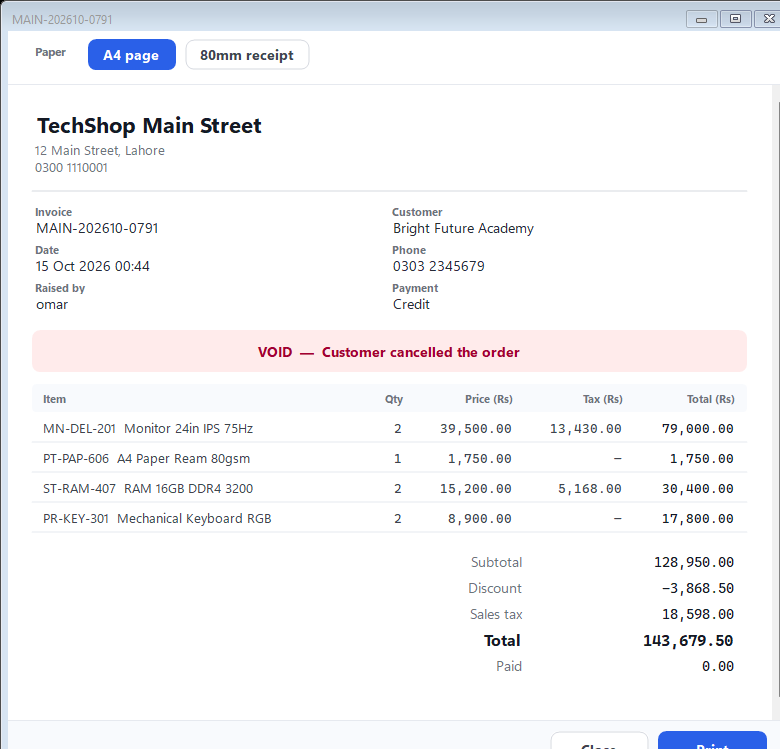
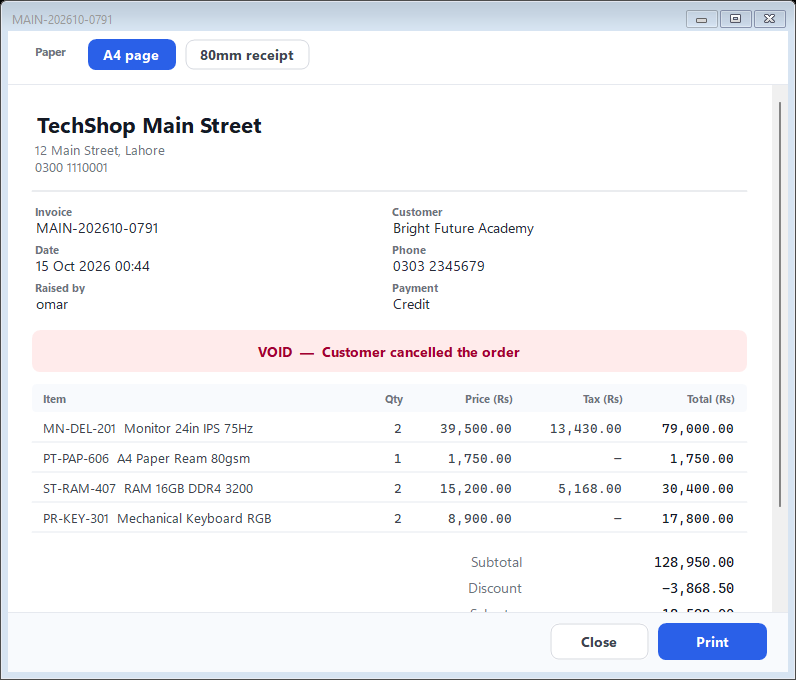
Keep every dialog inside the screen it opens on
The invoice dialog asked for a 760px client area, which is 790 with
its title bar. A 1366x768 laptop has about 720 usable pixels once the
taskbar has taken its share, so the footer -- holding Print and Close
-- sat below the bottom edge. The purchase bill editor and the user
editor were close to the same line.

Added DialogSizing.KeepOnScreen, applied to all eight dialogs. It runs
on Load, when the owner is finally known and so is the screen the
dialog will actually appear on: it lowers any MinimumSize that would
defeat the clamp, shrinks the window to the working area, and
re-centres, because a form shrunk after being centred for its original
size can still hang off the bottom. The tall dialogs now ask for a
height capped to what the screen allows, so the clamp is a safety net
rather than the normal path.

The invoice sheet scrolls, so a long invoice does not need a taller
window.

QA opens all twelve dialogs and checks each fits the working area,
sits fully on screen, and keeps its footer and footer buttons inside
the client area.

Also fixed the screenshot pass, which sized its bitmap to ClientSize
while DrawToBitmap paints the title bar too -- every render was losing
that many pixels off the bottom, which is what made the footer look
clipped when it was not. 270 checks pass.

diff --git a/tests/TechShop.QaHarness/DialogTests.cs b/tests/TechShop.QaHarness/DialogTests.cs
@@ -1,0 +1,148 @@
+using System.Drawing;
+using Microsoft.Extensions.DependencyInjection;
+using TechShop.Application.Common.Query;
+using TechShop.Application.Features.Catalog;
+using TechShop.Application.Features.Money;
+using TechShop.Application.Features.Parties;
+using TechShop.Application.Features.Purchases;
+using TechShop.Application.Features.Sales;
+using TechShop.Application.Features.Shops;
+using TechShop.Application.Features.Stock;
+using TechShop.Application.Features.Users;
+using TechShop.WinForms;
+using TechShop.WinForms.Controls;
+using TechShop.WinForms.Features.Admin;
+using TechShop.WinForms.Features.Catalog;
+using TechShop.WinForms.Features.Money;
+using TechShop.WinForms.Features.Parties;
+using TechShop.WinForms.Features.Pos;
+using TechShop.WinForms.Features.Purchases;
+using TechShop.WinForms.Features.Sales;
+using TechShop.WinForms.Features.Stock;
+
+namespace TechShop.QaHarness;
+
+/// <summary>
+/// Opens every dialog and checks it fits the screen.
+///
+/// A dialog sized on a big monitor loses its footer on a shop laptop, and the footer is
+/// where Save, Print and Close live — so the operator cannot finish what they started.
+/// A 1366x768 screen leaves about 720 usable pixels, which is less than several of these
+/// dialogs originally asked for.
+/// </summary>
+internal static class DialogTests
+{
+    public static async Task RunAsync(Harness harness)
+    {
+        var area = Screen.PrimaryScreen?.WorkingArea ?? new Rectangle(0, 0, 1366, 720);
+        harness.Section($"dialogs fit the screen ({area.Width}x{area.Height} usable)");
+
+        using var scope = AppHost.CreateScope();
+        var sp = scope.ServiceProvider;
+
+        var shops = await sp.GetRequiredService<ShopService>().LookupAsync().ConfigureAwait(true);
+        var categories = await sp.GetRequiredService<CategoryService>().LookupAsync().ConfigureAwait(true);
+        var suppliers = await sp.GetRequiredService<SupplierService>().LookupAsync().ConfigureAwait(true);
+        var customers = await sp.GetRequiredService<CustomerService>().LookupAsync().ConfigureAwait(true);
+        var expenseCategories = await sp.GetRequiredService<ExpenseService>().CategoriesAsync().ConfigureAwait(true);
+
+        var products = await sp.GetRequiredService<ProductService>()
+            .QueryAsync(new QueryRequest { PageSize = 200 }).ConfigureAwait(true);
+
+        var invoices = await sp.GetRequiredService<SalesService>()
+            .QueryAsync(new QueryRequest { PageSize = 20, Sort = [new SortRule { Field = "invoiceDate", Desc = true }] })
+            .ConfigureAwait(true);
+
+        var invoice = await sp.GetRequiredService<SalesService>()
+            .GetAsync(invoices.Items[0].Id).ConfigureAwait(true);
+
+        var bills = await sp.GetRequiredService<PurchaseService>()
+            .QueryAsync(new QueryRequest { PageSize = 5 }).ConfigureAwait(true);
+
+        var bill = await sp.GetRequiredService<PurchaseService>()
+            .GetAsync(bills.Items[0].Id).ConfigureAwait(true);
+
+        var levels = await sp.GetRequiredService<StockService>()
+            .QueryLevelsAsync(new QueryRequest { PageSize = 5 }).ConfigureAwait(true);
+
+        var ledger = await sp.GetRequiredService<Application.Features.Ledgers.LedgerService>()
+            .CustomerLedgerAsync(customers[0].Id, null, null, null).ConfigureAwait(true);
+
+        var user = await sp.GetRequiredService<UserService>()
+            .GetAsync((await sp.GetRequiredService<UserService>()
+                .QueryAsync(new QueryRequest { PageSize = 1 }).ConfigureAwait(true)).Items[0].Id)
+            .ConfigureAwait(true);
+
+        Check(harness, "Invoice (A4)", area, () => new InvoiceDetailDialog(invoice));
+        Check(harness, "Invoice (80mm)", area, () => new InvoiceDetailDialog(invoice, InvoiceFormat.Receipt80));
+        Check(harness, "Purchase bill", area, () => new PurchaseBillDialog(bill));
+        Check(harness, "New purchase bill", area, () => new PurchaseBillEditor(
+            sp.GetRequiredService<PurchaseService>(), shops, [.. suppliers], products.Items, shops[0].Id));
+        Check(harness, "Customer ledger", area, () => new LedgerDialog("QA ledger", ledger));
+        Check(harness, "Stock movements", area, () => new StockMovementsDialog(
+            sp.GetRequiredService<StockService>(), null, null));
+        Check(harness, "Edit user", area, () => new UserEditor(sp.GetRequiredService<UserService>(), shops, user));
+        Check(harness, "Payment", area, () => new PaymentDialog(1234.56m, walkIn: true));
+        Check(harness, "New product", area, () => new ProductEditor(
+            sp.GetRequiredService<ProductService>(), categories, null));
+        Check(harness, "New customer", area, () => new CustomerEditor(
+            sp.GetRequiredService<CustomerService>(), null));
+        Check(harness, "New expense", area, () => new ExpenseEditor(
+            sp.GetRequiredService<ExpenseService>(), shops, expenseCategories, null));
+        Check(harness, "Stock adjustment", area, () => new StockAdjustEditor(
+            sp.GetRequiredService<StockService>(), levels.Items[0]));
+    }
+
+    private static void Check(Harness harness, string name, Rectangle area, Func<Form> build)
+    {
+        Form? dialog = null;
+
+        try
+        {
+            dialog = build();
+            dialog.ShowInTaskbar = false;
+            dialog.Show();
+            System.Windows.Forms.Application.DoEvents();
+
+            harness.Expect($"{name}: fits the working area",
+                dialog.Width <= area.Width && dialog.Height <= area.Height,
+                $"{dialog.Width}x{dialog.Height} against {area.Width}x{area.Height} usable");
+
+            harness.Expect($"{name}: sits fully on screen",
+                dialog.Left >= area.Left && dialog.Top >= area.Top
+                && dialog.Right <= area.Right && dialog.Bottom <= area.Bottom,
+                $"at {dialog.Bounds}, screen is {area}");
+
+            // The footer is what gets lost when a dialog is too tall, and it is the part
+            // holding Save, Print and Close.
+            var bottomMost = dialog.Controls.OfType<Control>()
+                .Where(c => c.Dock == DockStyle.Bottom && c.Visible)
+                .ToList();
+
+            foreach (var footer in bottomMost)
+            {
+                harness.Expect($"{name}: footer is inside the client area",
+                    footer.Bottom <= dialog.ClientSize.Height && footer.Top >= 0,
+                    $"footer at {footer.Bounds} in client {dialog.ClientSize}");
+
+                var buttons = footer.Controls.OfType<Control>().Where(c => c.Visible).ToList();
+
+                harness.Expect($"{name}: footer controls are inside the window",
+                    buttons.TrueForAll(b => b.Bottom <= footer.ClientSize.Height && b.Right <= footer.ClientSize.Width),
+                    string.Join(", ", buttons
+                        .Where(b => b.Bottom > footer.ClientSize.Height || b.Right > footer.ClientSize.Width)
+                        .Select(b => $"{b.Text} at {b.Bounds} in {footer.ClientSize}")));
+            }
+
+            dialog.Close();
+        }
+        catch (Exception ex)
+        {
+            harness.Fail($"{name}: opens", ex.Message);
+        }
+        finally
+        {
+            dialog?.Dispose();
+        }
+    }
+}

diff --git a/src/TechShop.WinForms/Controls/DialogSizing.cs b/src/TechShop.WinForms/Controls/DialogSizing.cs
@@ -1,0 +1,68 @@
+using System.Drawing;
+using TechShop.WinForms.Theming;
+
+namespace TechShop.WinForms.Controls;
+
+/// <summary>
+/// Keeps a dialog inside the screen it opens on.
+///
+/// A dialog sized for the developer's monitor is a dialog whose buttons are below the
+/// bottom edge on a shop's laptop. A 1366x768 screen has roughly 720 usable pixels once
+/// the taskbar has taken its share, so anything asking for more loses its footer — and
+/// the footer is where Save, Print and Close live.
+///
+/// Applied on Load rather than in a constructor, because until the window has an owner
+/// there is no way to know which screen it will appear on.
+/// </summary>
+public static class DialogSizing
+{
+    /// <summary>Breathing room left around the dialog so it does not sit edge to edge.</summary>
+    private const int Margin = Metrics.Space10;
+
+    public static void KeepOnScreen(this Form form)
+        => form.Load += (_, _) => Fit(form);
+
+    private static void Fit(Form form)
+    {
+        var area = (form.Owner is not null ? Screen.FromControl(form.Owner) : Screen.FromControl(form)).WorkingArea;
+
+        var maxWidth = area.Width - Margin;
+        var maxHeight = area.Height - Margin;
+
+        // A minimum larger than the screen would defeat the clamp below, so it is
+        // lowered first. A dialog that cannot fit is better cramped than cut off.
+        if (form.MinimumSize.Width > maxWidth || form.MinimumSize.Height > maxHeight)
+        {
+            form.MinimumSize = new Size(
+                Math.Min(form.MinimumSize.Width, maxWidth),
+                Math.Min(form.MinimumSize.Height, maxHeight));
+        }
+
+        var width = Math.Min(form.Width, maxWidth);
+        var height = Math.Min(form.Height, maxHeight);
+
+        if (width != form.Width || height != form.Height)
+        {
+            form.Size = new Size(width, height);
+        }
+
+        // Re-centre: shrinking a form leaves it where its original, larger centring put
+        // it, which can still hang off the bottom.
+        var x = area.Left + ((area.Width - form.Width) / 2);
+        var y = area.Top + ((area.Height - form.Height) / 2);
+
+        form.StartPosition = FormStartPosition.Manual;
+        form.Location = new Point(Math.Max(area.Left, x), Math.Max(area.Top, y));
+    }
+
+    /// <summary>The largest client height a dialog can expect, for sizing defaults.</summary>
+    public static int MaxClientHeight(IWin32Window? owner)
+    {
+        var area = owner is Control control
+            ? Screen.FromControl(control).WorkingArea
+            : Screen.PrimaryScreen?.WorkingArea ?? new Rectangle(0, 0, 1024, 720);
+
+        // Allow for the title bar and the border the form adds around its client area.
+        return area.Height - Margin - 40;
+    }
+}

diff --git a/src/TechShop.WinForms/Features/Sales/InvoiceDetailDialog.cs b/src/TechShop.WinForms/Features/Sales/InvoiceDetailDialog.cs
@@ -29,8 +29,11 @@ public sealed class InvoiceDetailDialog : Form
 
         Text = invoice.InvoiceNo;
         StartPosition = FormStartPosition.CenterParent;
-        ClientSize = new Size(680, 760);
-        MinimumSize = new Size(560, 540);
+        // Sized to fit a 1366x768 laptop, which is the smallest screen this is likely
+        // to meet on a shop counter. The sheet scrolls, so a long invoice does not need
+        // a taller window — and a taller window is one whose Print button is off-screen.
+        ClientSize = new Size(680, Math.Min(720, DialogSizing.MaxClientHeight(null)));
+        MinimumSize = new Size(560, 420);
         BackColor = Palette.AppBackground;
         Font = Typography.Body;
         ShowIcon = false;
@@ -91,6 +94,9 @@ public sealed class InvoiceDetailDialog : Form
         Controls.Add(footer);
 
         CancelButton = close;
+
+        // Never taller or wider than the screen it opens on.
+        this.KeepOnScreen();
         ApplyFormat(_format);
     }
 

diff --git a/src/TechShop.WinForms/Features/Admin/UserEditor.cs b/src/TechShop.WinForms/Features/Admin/UserEditor.cs
@@ -50,8 +50,8 @@ public sealed class UserEditor : Form
 
         Text = existing is null ? "New user" : $"Edit {existing.Username}";
         StartPosition = FormStartPosition.CenterParent;
-        ClientSize = new Size(880, 680);
-        MinimumSize = new Size(820, 600);
+        ClientSize = new Size(880, Math.Min(680, DialogSizing.MaxClientHeight(null)));
+        MinimumSize = new Size(820, 520);
         FormBorderStyle = FormBorderStyle.Sizable;
         BackColor = Palette.AppBackground;
         Font = Typography.Body;
@@ -189,6 +189,9 @@ public sealed class UserEditor : Form
         ApplyRole();
 
         CancelButton = cancel;
+
+        // Never taller or wider than the screen it opens on.
+        this.KeepOnScreen();
     }
 
     /// <summary>

diff --git a/src/TechShop.WinForms/Features/Purchases/PurchaseBillEditor.cs b/src/TechShop.WinForms/Features/Purchases/PurchaseBillEditor.cs
@@ -57,8 +57,8 @@ public sealed class PurchaseBillEditor : Form
 
         Text = "New purchase bill";
         StartPosition = FormStartPosition.CenterParent;
-        ClientSize = new Size(960, 700);
-        MinimumSize = new Size(860, 600);
+        ClientSize = new Size(960, Math.Min(700, DialogSizing.MaxClientHeight(null)));
+        MinimumSize = new Size(860, 520);
         BackColor = Palette.AppBackground;
         Font = Typography.Body;
         ShowIcon = false;
@@ -223,6 +223,9 @@ public sealed class PurchaseBillEditor : Form
         Controls.Add(footer);
 
         CancelButton = cancel;
+
+        // Never taller or wider than the screen it opens on.
+        this.KeepOnScreen();
         Refresh();
     }
 

diff --git a/tests/TechShop.QaHarness/ScreenTests.cs b/tests/TechShop.QaHarness/ScreenTests.cs
@@ -91,8 +91,10 @@ internal static class ScreenTests
             host.PerformLayout();
             System.Windows.Forms.Application.DoEvents();
 
-            using var bitmap = new Bitmap(host.ClientSize.Width, host.ClientSize.Height);
-            host.DrawToBitmap(bitmap, new Rectangle(Point.Empty, host.ClientSize));
+            // The whole window, including its title bar: DrawToBitmap draws the chrome,
+            // so a client-sized bitmap silently crops the bottom of the page.
+            using var bitmap = new Bitmap(host.Width, host.Height);
+            host.DrawToBitmap(bitmap, new Rectangle(0, 0, bitmap.Width, bitmap.Height));
 
             if (ShotDirectory is not null)
             {

diff --git a/tests/TechShop.QaHarness/PrintTests.cs b/tests/TechShop.QaHarness/PrintTests.cs
@@ -93,7 +93,10 @@ internal static class PrintTests
                     $"{invoice.Items.Count} items produced {height}px");
             }
 
-            using var bitmap = new Bitmap(dialog.ClientSize.Width, dialog.ClientSize.Height);
+            // Sized to the whole window, not the client area: DrawToBitmap paints the
+            // title bar too, so a client-sized bitmap loses that many pixels off the
+            // bottom — which is exactly where the footer buttons are.
+            using var bitmap = new Bitmap(dialog.Width, dialog.Height);
             dialog.DrawToBitmap(bitmap, new Rectangle(0, 0, bitmap.Width, bitmap.Height));
 
             harness.Pass($"{name}: renders");

diff --git a/tests/TechShop.QaHarness/Program.cs b/tests/TechShop.QaHarness/Program.cs
@@ -56,6 +56,7 @@ internal static class Program
             InsertTests.RunAsync(harness).GetAwaiter().GetResult();
             TillTests.RunAsync(harness).GetAwaiter().GetResult();
             PrintTests.RunAsync(harness, ScreenTests.ShotDirectory).GetAwaiter().GetResult();
+            DialogTests.RunAsync(harness).GetAwaiter().GetResult();
             PermissionTests.RunAsync(harness, provider).GetAwaiter().GetResult();
             LoadTests.RunAsync(harness).GetAwaiter().GetResult();
         }

diff --git a/src/TechShop.WinForms/Features/Stock/StockMovementsDialog.cs b/src/TechShop.WinForms/Features/Stock/StockMovementsDialog.cs
@@ -121,6 +121,9 @@ public sealed class StockMovementsDialog : Form
         Controls.Add(footer);
 
         CancelButton = close;
+
+        // Never taller or wider than the screen it opens on.
+        this.KeepOnScreen();
         Shown += async (_, _) => await _grid.ReloadAsync().ConfigureAwait(true);
     }
 

diff --git a/src/TechShop.WinForms/Controls/LedgerDialog.cs b/src/TechShop.WinForms/Controls/LedgerDialog.cs
@@ -137,6 +137,9 @@ public sealed class LedgerDialog : Form
         Controls.Add(footer);
 
         CancelButton = close;
+
+        // Never taller or wider than the screen it opens on.
+        this.KeepOnScreen();
     }
 
     private static void Figure(Graphics g, int x, string label, decimal value)

diff --git a/src/TechShop.WinForms/Features/Purchases/PurchaseBillDialog.cs b/src/TechShop.WinForms/Features/Purchases/PurchaseBillDialog.cs
@@ -131,6 +131,9 @@ public sealed class PurchaseBillDialog : Form
         Controls.Add(header);
         Controls.Add(footer);
         CancelButton = close;
+
+        // Never taller or wider than the screen it opens on.
+        this.KeepOnScreen();
     }
 
     private static void Figure(

diff --git a/src/TechShop.WinForms/Features/Pos/PaymentDialog.cs b/src/TechShop.WinForms/Features/Pos/PaymentDialog.cs
@@ -152,6 +152,9 @@ public sealed class PaymentDialog : Form
         AcceptButton = _confirm;
         CancelButton = cancel;
 
+        // Never taller or wider than the screen it opens on.
+        this.KeepOnScreen();
+
         Shown += (_, _) =>
         {
             _tendered.Focus();
